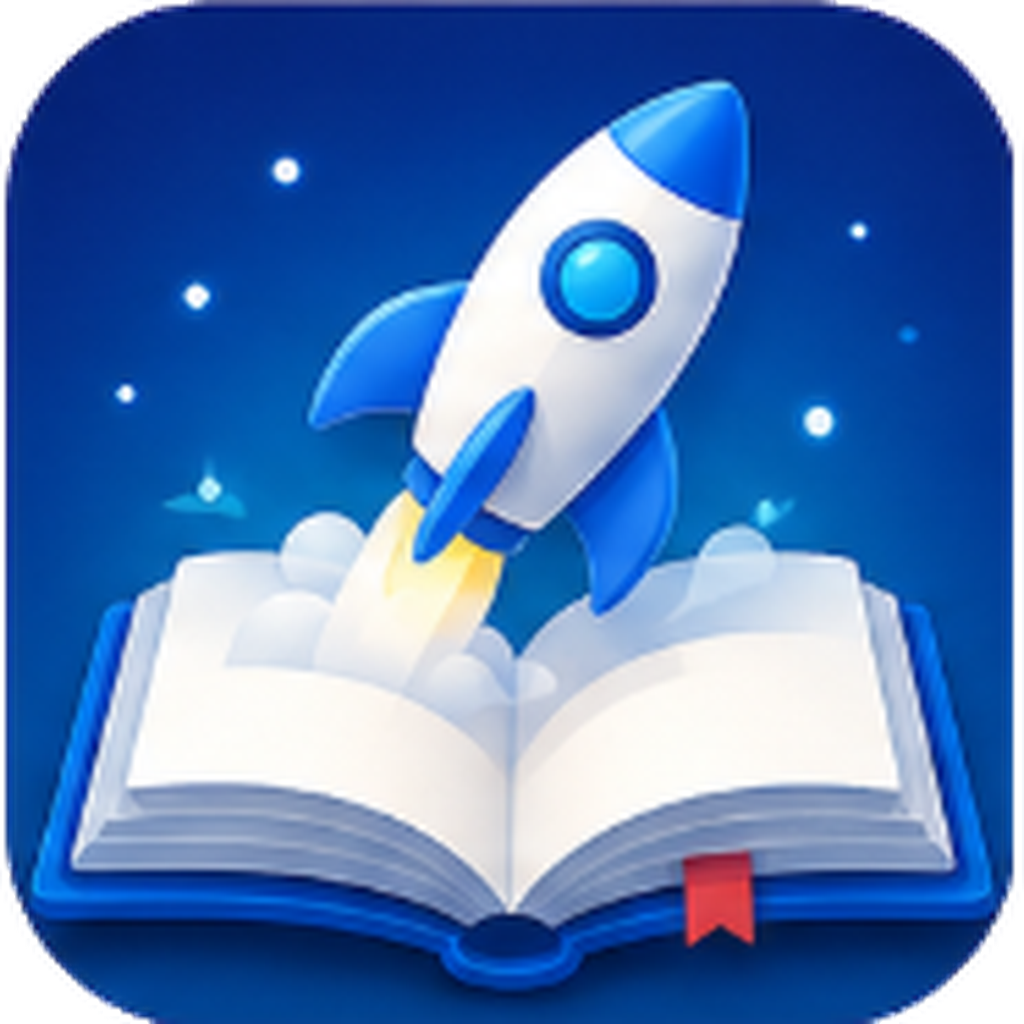
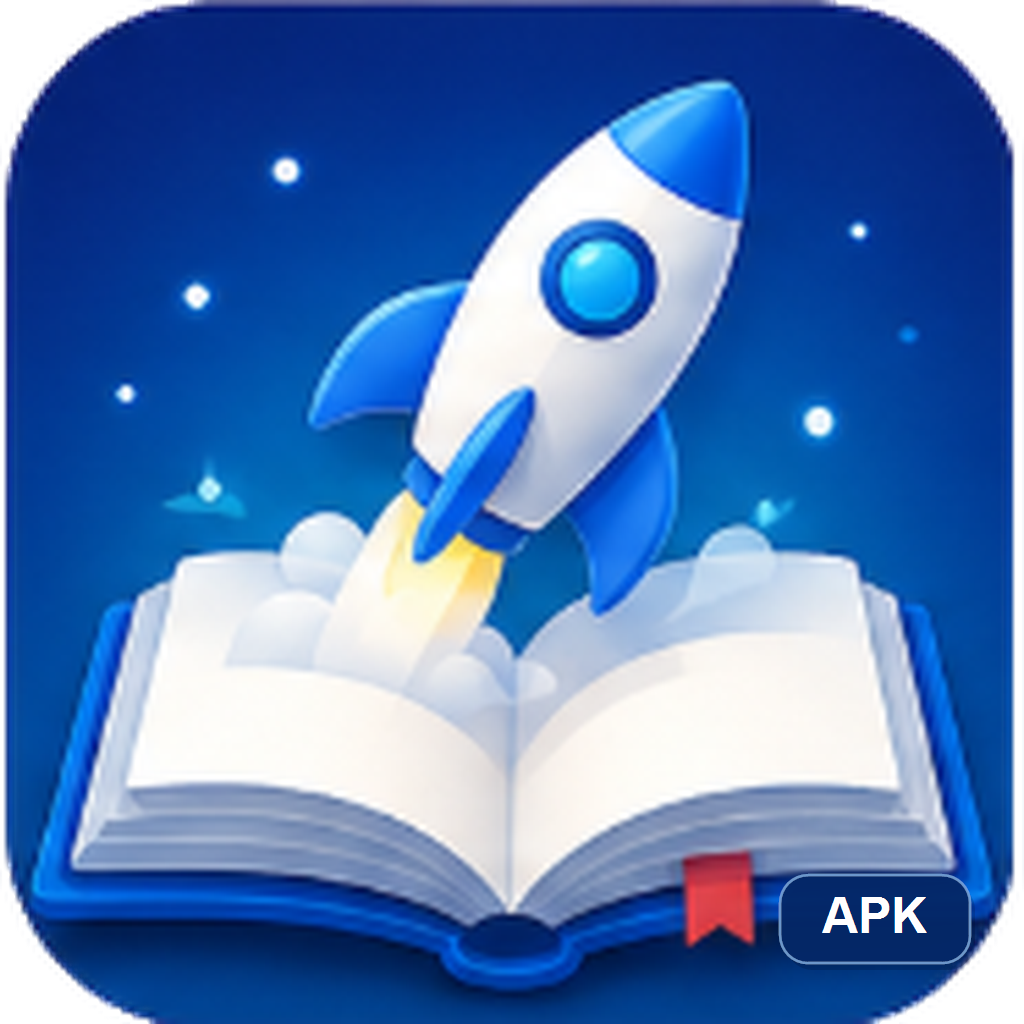
Добавил метку APK и адаптивный значок приложения

Changed region(s): [[0.75, 0.8438, 0.9688, 0.9688]]

diff --git a/BRAND_ASSETS_LICENSE.md b/BRAND_ASSETS_LICENSE.md
@@ -10,7 +10,8 @@ Copyright (c) 2026 Ilya Barilo (Илья Барило). Все права защ
 программный код GameSpace. К таким файлам относятся:
 
 - `apk-gamespace/icon-source/gamespace-icon-1024.png`;
-- `apk-gamespace/android-webview-loader/app/src/main/res/mipmap-*/ic_launcher.png`;
+- `apk-gamespace/icon-source/gamespace-icon-adaptive-1024.png`;
+- `apk-gamespace/android-webview-loader/app/src/main/res/mipmap-*/ic_launcher*.png`;
 - `pwa-gamespace/public/icons/gamespace-*.png`.
 
 Разрешается воспроизводить охраняемые графические материалы только как

diff --git a/apk-gamespace/android-webview-loader/app/src/main/assets/licenses/BRAND_ASSETS_LICENSE.md b/apk-gamespace/android-webview-loader/app/src/main/assets/licenses/BRAND_ASSETS_LICENSE.md
@@ -10,7 +10,8 @@ Copyright (c) 2026 Ilya Barilo (Илья Барило). Все права защ
 программный код GameSpace. К таким файлам относятся:
 
 - `apk-gamespace/icon-source/gamespace-icon-1024.png`;
-- `apk-gamespace/android-webview-loader/app/src/main/res/mipmap-*/ic_launcher.png`;
+- `apk-gamespace/icon-source/gamespace-icon-adaptive-1024.png`;
+- `apk-gamespace/android-webview-loader/app/src/main/res/mipmap-*/ic_launcher*.png`;
 - `pwa-gamespace/public/icons/gamespace-*.png`.
 
 Разрешается воспроизводить охраняемые графические материалы только как
